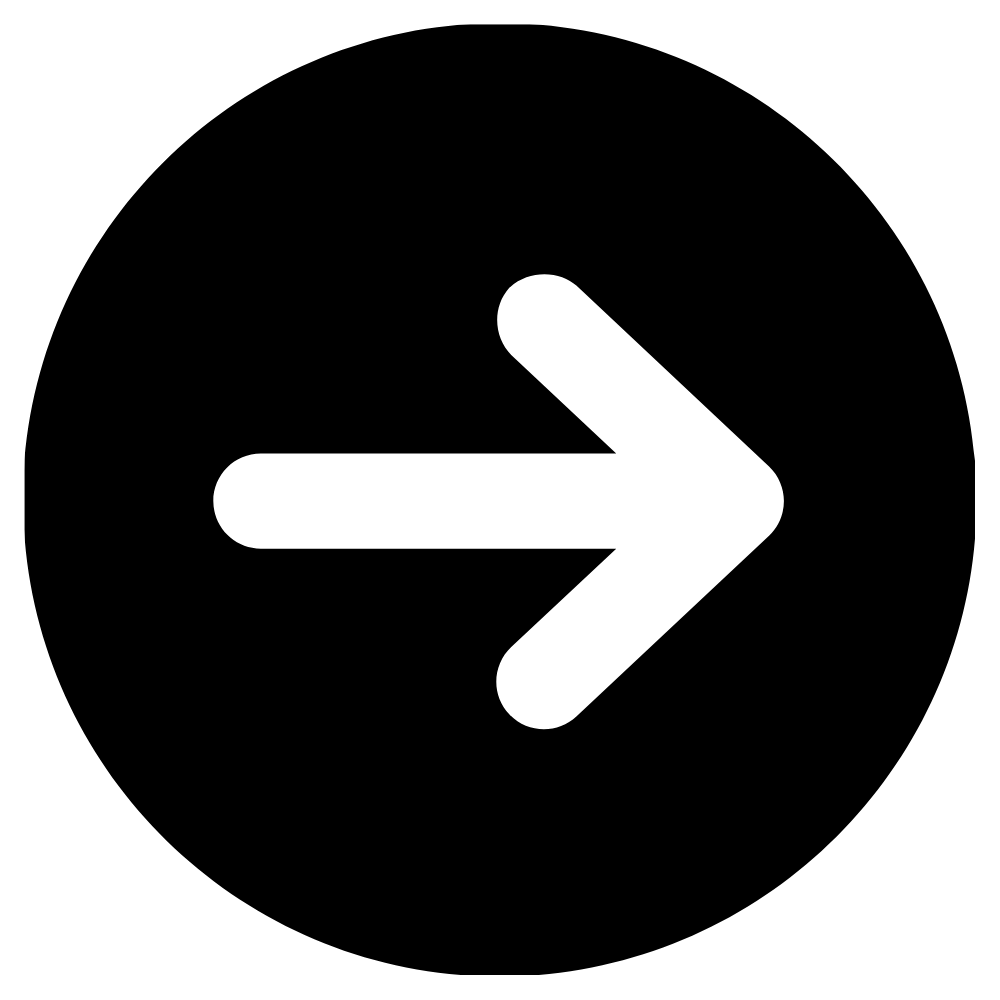
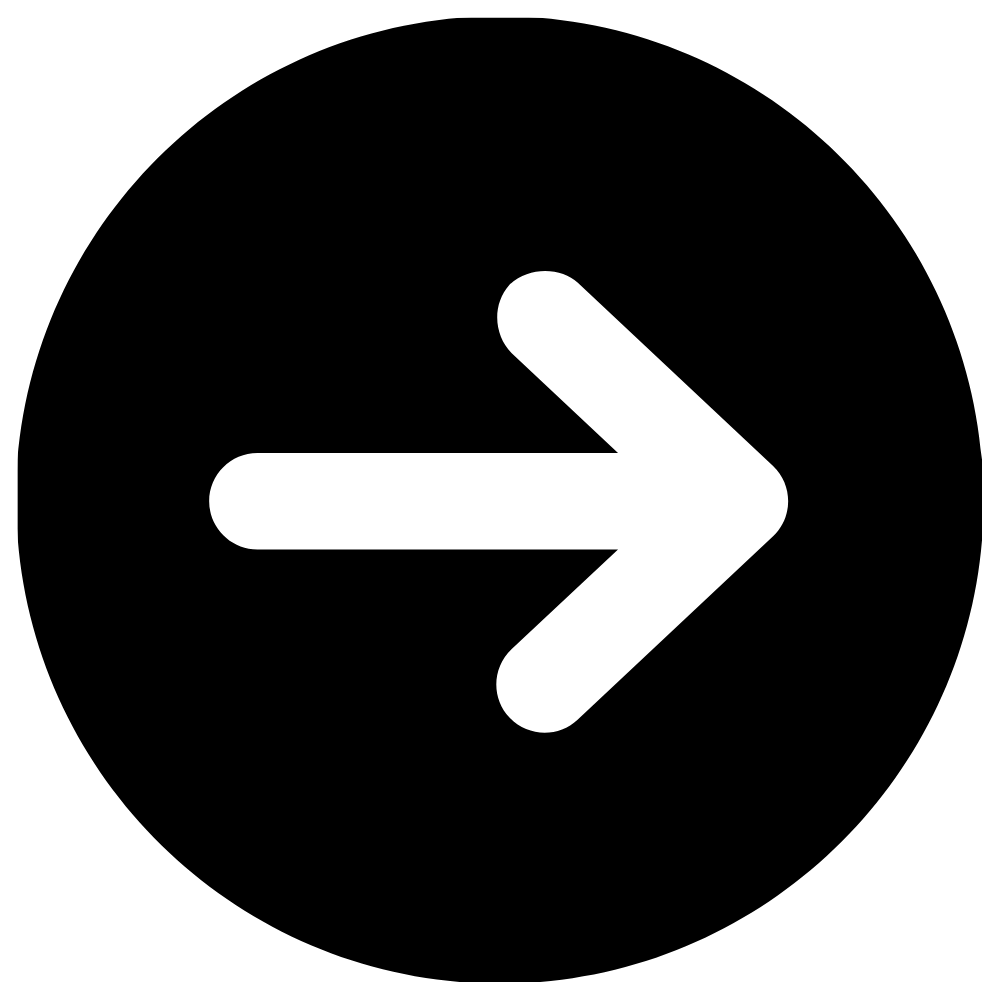
Added CSS on admin pages and arrow button colors

diff --git a/frontend/pages/admin/userManagement.html b/frontend/pages/admin/userManagement.html
@@ -19,7 +19,7 @@
             <div class="search-box">
                 <div class="search-input">
                     <img src="../../resources/imgs/magnifying-glass-solid.png" alt="search icon">
-                    <input type="text" placeholder="Search...">
+                    <input type="text" placeholder="Enter user">
                 </div>
 
                 <div class="filter">
@@ -61,7 +61,7 @@
                 <td>Active</td>
                 <td>10-22-2023</td>
                 <td>
-                    <a href="#" class="action-btn" onclick="return confirm('Are you sure you want to SUSPEND this user?')">Suspend</a>
+                    <a href="#" class="action-btn" onclick="return confirm('Are you sure you want to SUSPEND this user?')">[Suspend]</a>
                 </td>
             </tr>
             <tr>
@@ -71,7 +71,7 @@
                 <td>Inactive</td>
                 <td>2-14-2026</td>
                 <td>
-                    <a href="#" class="action-btn" onclick="return confirm('Are you sure you want to ACTIVATE this user?')">Activate</a>
+                    <a href="#" class="action-btn" onclick="return confirm('Are you sure you want to ACTIVATE this user?')">[Activate]</a>
                 </td>
             </tr>
             <tr>
@@ -81,7 +81,7 @@
                 <td>Active</td>
                 <td>12-14-2020</td>
                 <td>
-                    <a href="#" class="action-btn" onclick="return confirm('Are you sure you want to SUSPEND this user?')">Suspend</a>
+                    <a href="#" class="action-btn" onclick="return confirm('Are you sure you want to SUSPEND this user?')">[Suspend]</a>
                 </td>
             </tr>
         </table>

diff --git a/frontend/resources/css/admin-user-management.css b/frontend/resources/css/admin-user-management.css
@@ -1,7 +1,11 @@
 .body-box {
+    width: 100%;
+    max-width: 1500px;
+    padding: 2%;
+    background-color: #fdd6d6;
+    margin: 0 auto;
     margin-top: 2%;
-    padding: 0 3% 2%;
-    border: 2px solid #333;
+    border-radius: 15px;
 }
 
 .search-section {
@@ -14,6 +18,7 @@
 
 .search-section h1 {
     font-size: 250%;
+    color:#725420;
 }
 
 .search-box {
@@ -78,12 +83,18 @@
 
 table {
     width: 95%;
-    border-collapse: collapse;
+    border-spacing: 0;
+    background-color: #fff;
     margin: 0 auto;
+    border-radius: 15px;
+    overflow: hidden;
+}
+
+tr:hover {
+    background-color: #fff3f3;;
 }
 
 th,td {
-    border: 1px solid #191102;
     padding: 15px;
     text-align: center;
 }
@@ -91,4 +102,21 @@ th,td {
 th {
     text-align: center;
     font-weight: bold;
+    background-color: #725420;
+    color: #fff;
+}
+
+tr:nth-child(2) a,
+tr:nth-child(4) a {
+    color: red;
+    text-decoration: none;
+}
+
+tr:nth-child(3) a {
+    color: green;
+    text-decoration: none;
+}
+
+td:last-child:hover {
+    text-decoration: underline;
 }

diff --git a/frontend/pages/admin/dashboard.html b/frontend/pages/admin/dashboard.html
@@ -14,17 +14,17 @@
     <div class="body-box">
         <div class="preview-box">
             <p>Pending Reports</p>
-            <p>0</p>
+            <p class="count">0</p>
                 <div class="redirect">
-                <a href="reviewsContentModeration.html"><img src="../../resources/imgs/arrow-btn.png"></a>
+                <a href="reviewsContentModeration.html"><img src="../../resources/imgs/arrow-btn-color2.png"></a>
                 </div>
         </div>
 
         <div class="preview-box">
             <p>Pending Cafe Approvals</p>
-            <p>3</p>
+            <p class="count">3</p>
                 <div class="redirect">
-                <a href="reviewsContentModeration.html"><img src="../../resources/imgs/arrow-btn.png"></a>
+                <a href="reviewsContentModeration.html"><img src="../../resources/imgs/arrow-btn-color2.png"></a>
                 </div>
         </div>
 

diff --git a/frontend/resources/css/admin-dashboard.css b/frontend/resources/css/admin-dashboard.css
@@ -4,19 +4,28 @@
     margin-top: 2%;
     padding: 3% 2%;
     justify-content: center;
-    border: 2px solid #333;
 }
 
 .preview-box {
     font-size: 280%;
-    border: 2px solid #333;
+    color:#725420;
     width: 600px;
     height: 300px;
     padding: 0 2%;
     box-sizing: border-box;
-
+    background-color: #fdd6d6;
+    border-radius: 15px;
     display: flex;
     flex-direction: column;
+    transition: ease all 0.3s;
+}
+
+.preview-box:hover {
+    scale: 101%;
+}
+
+.count {
+    color: #ce8139;
 }
 
 .redirect {
@@ -35,6 +44,11 @@
     width: 60px;
     padding-bottom: 20%;
     cursor: pointer;
+    transition: ease all 0.3s;
+}
+
+img:hover {
+    scale: 120%;
 }
 
 .preview-box p {
